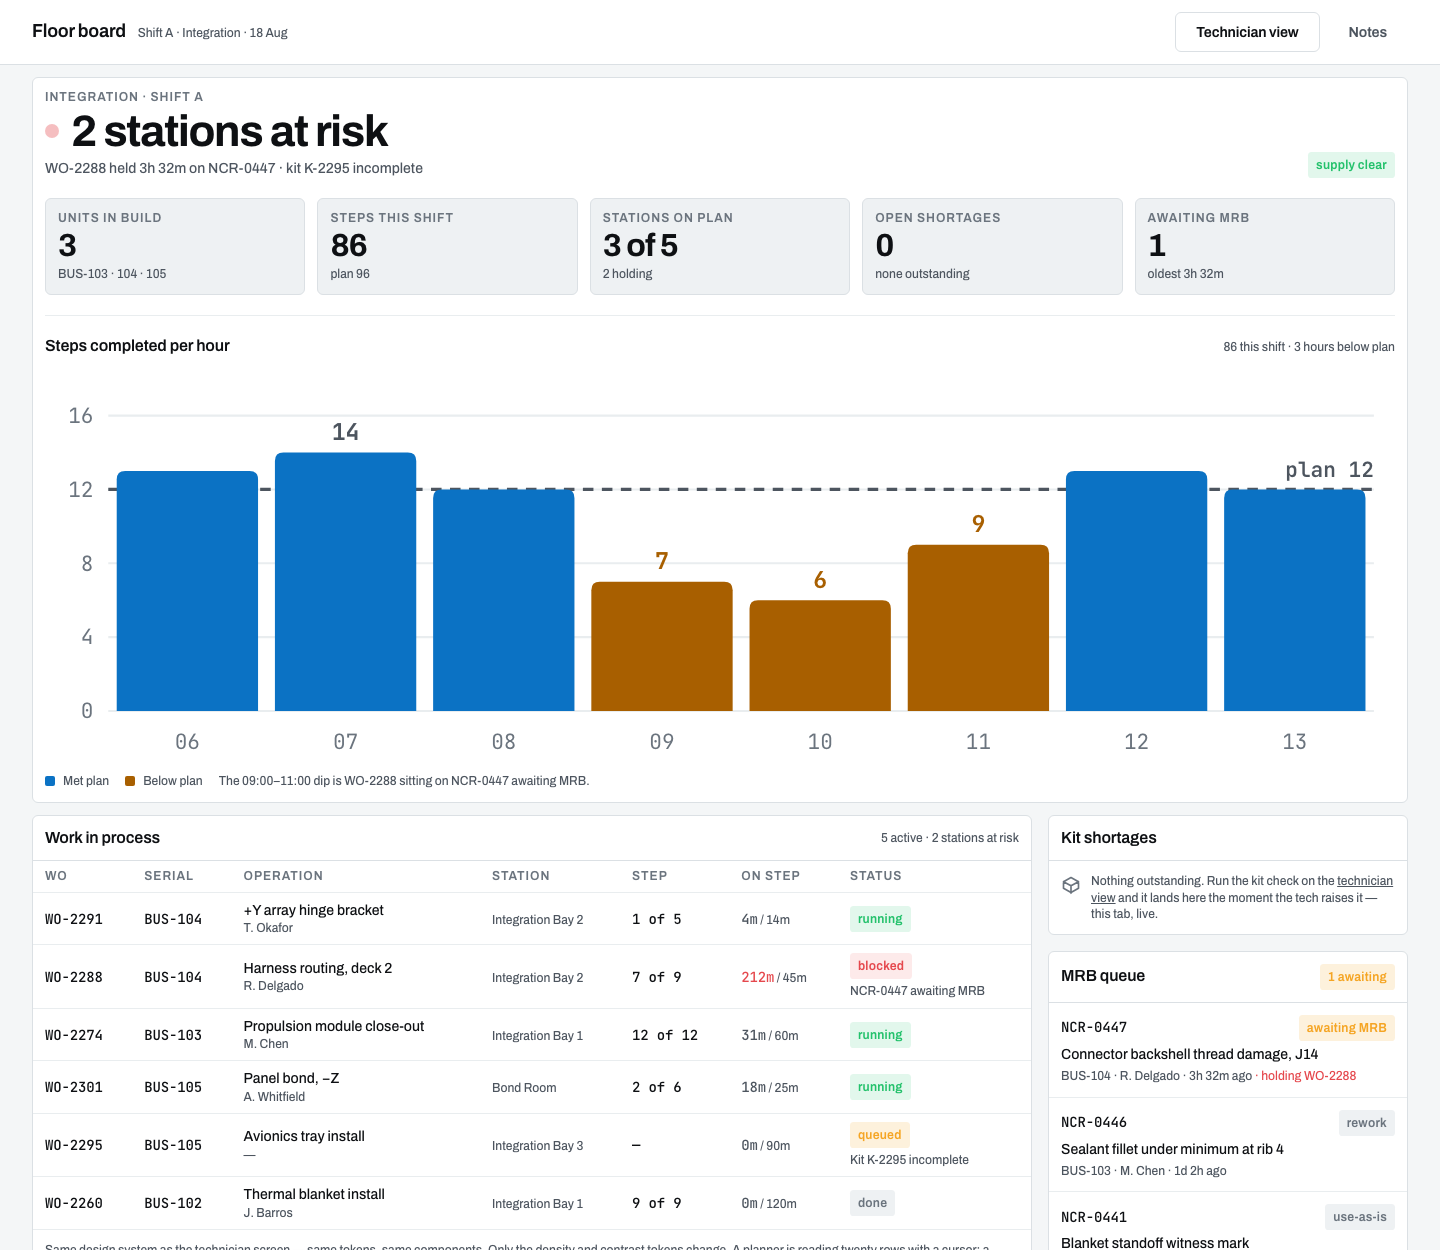
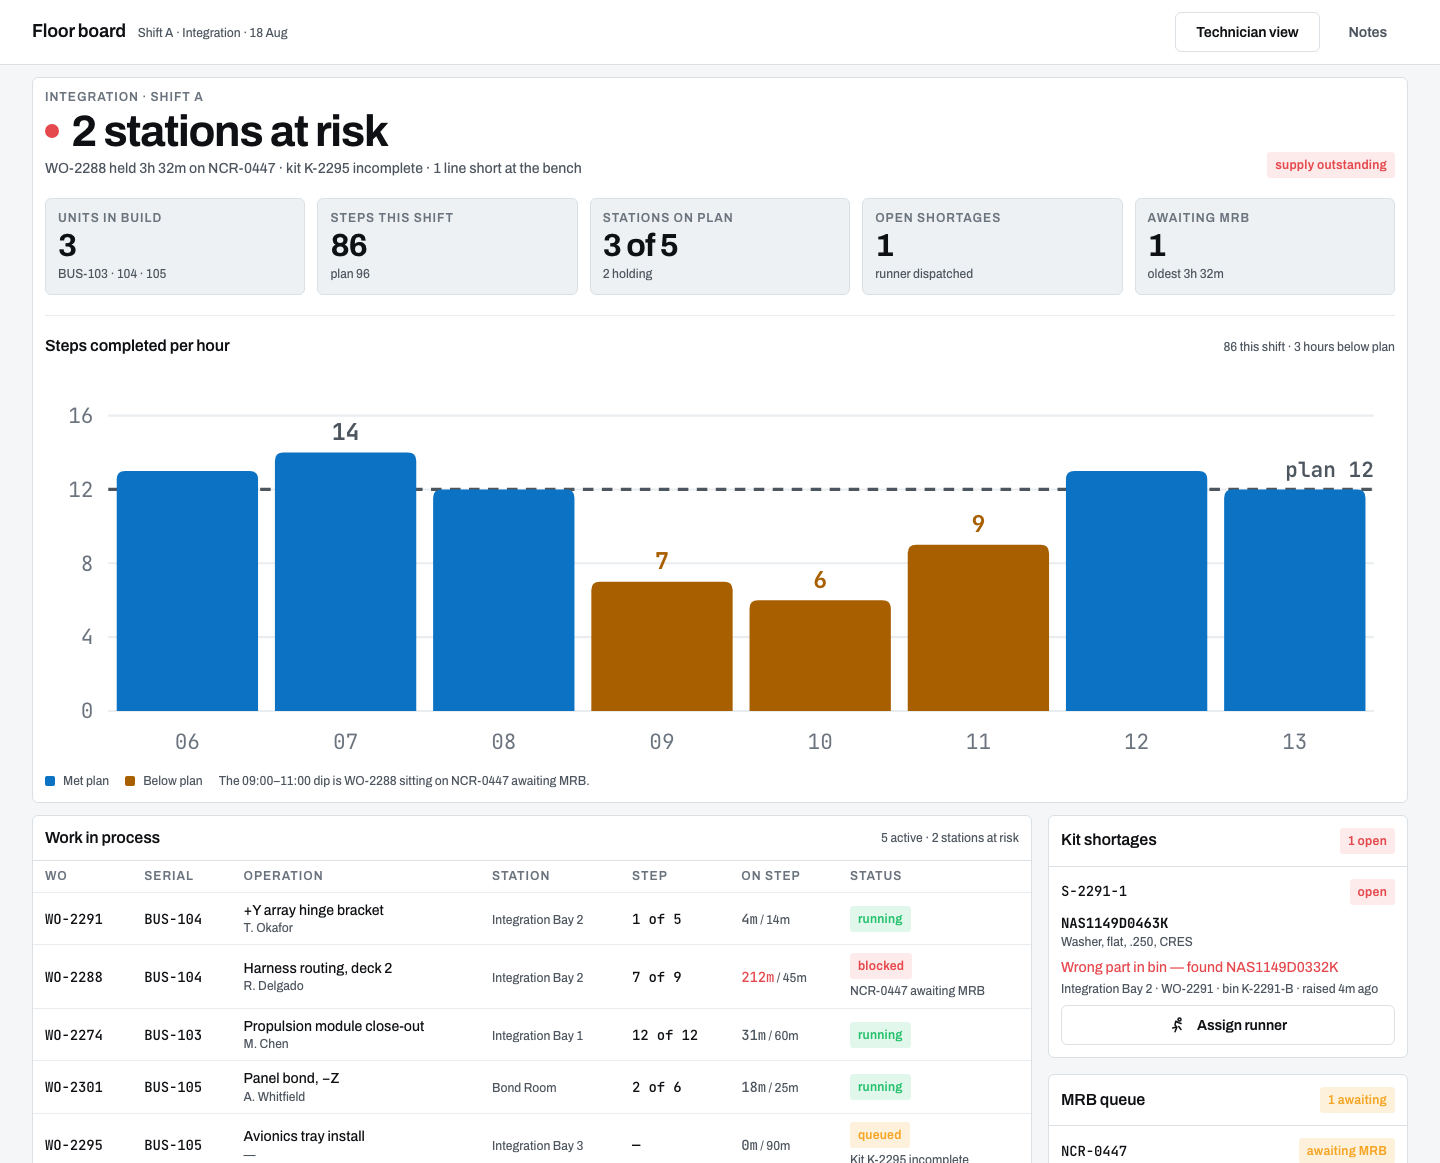
README: kit-check screenshot with the wrong washer flagged, planner board with the shortage raised

diff --git a/README.md b/README.md
@@ -4,13 +4,11 @@ Build-execution software for a spacecraft factory floor, built as a concept stud
 
 **Live:** [bench-seven.vercel.app](https://bench-seven.vercel.app) · [`/floor`](https://bench-seven.vercel.app/floor) (technician, open at tablet width) · [`/plan`](https://bench-seven.vercel.app/plan) (planner, desktop) · [`/`](https://bench-seven.vercel.app) (the six design decisions and why)
 
-Open `/floor` and `/plan` side by side, run the kit check on the floor, and watch the shortage land on the planner board.
+Open `/floor` and `/plan` side by side, run the kit check on the floor, and watch the shortage land on the planner board. That is what the two screenshots below show: the technician finds the wrong washer in the bin, and the planner sees it a moment later.
 
-<p>
-  <img src="docs/floor.png" alt="Technician view: step 1 of 5, verify hardware kit at the bench" width="360">
-  &nbsp;&nbsp;
-  <img src="docs/plan.png" alt="Planner board: stations at risk, steps per hour, work in process, kit shortages, MRB queue" width="600">
-</p>
+<img src="docs/floor.png" alt="Technician view: kit check at the bench. The screw line is verified in green; the washer line is flagged in red because the bin holds NAS1149D0332K, a thinner washer with the same diameter and finish." width="720">
+
+<img src="docs/plan.png" alt="Planner board a moment later: supply outstanding, one open shortage with the wrong part named, and a runner to assign, next to steps per hour, work in process, and the MRB queue." width="900">
 
 ## What it does
 
